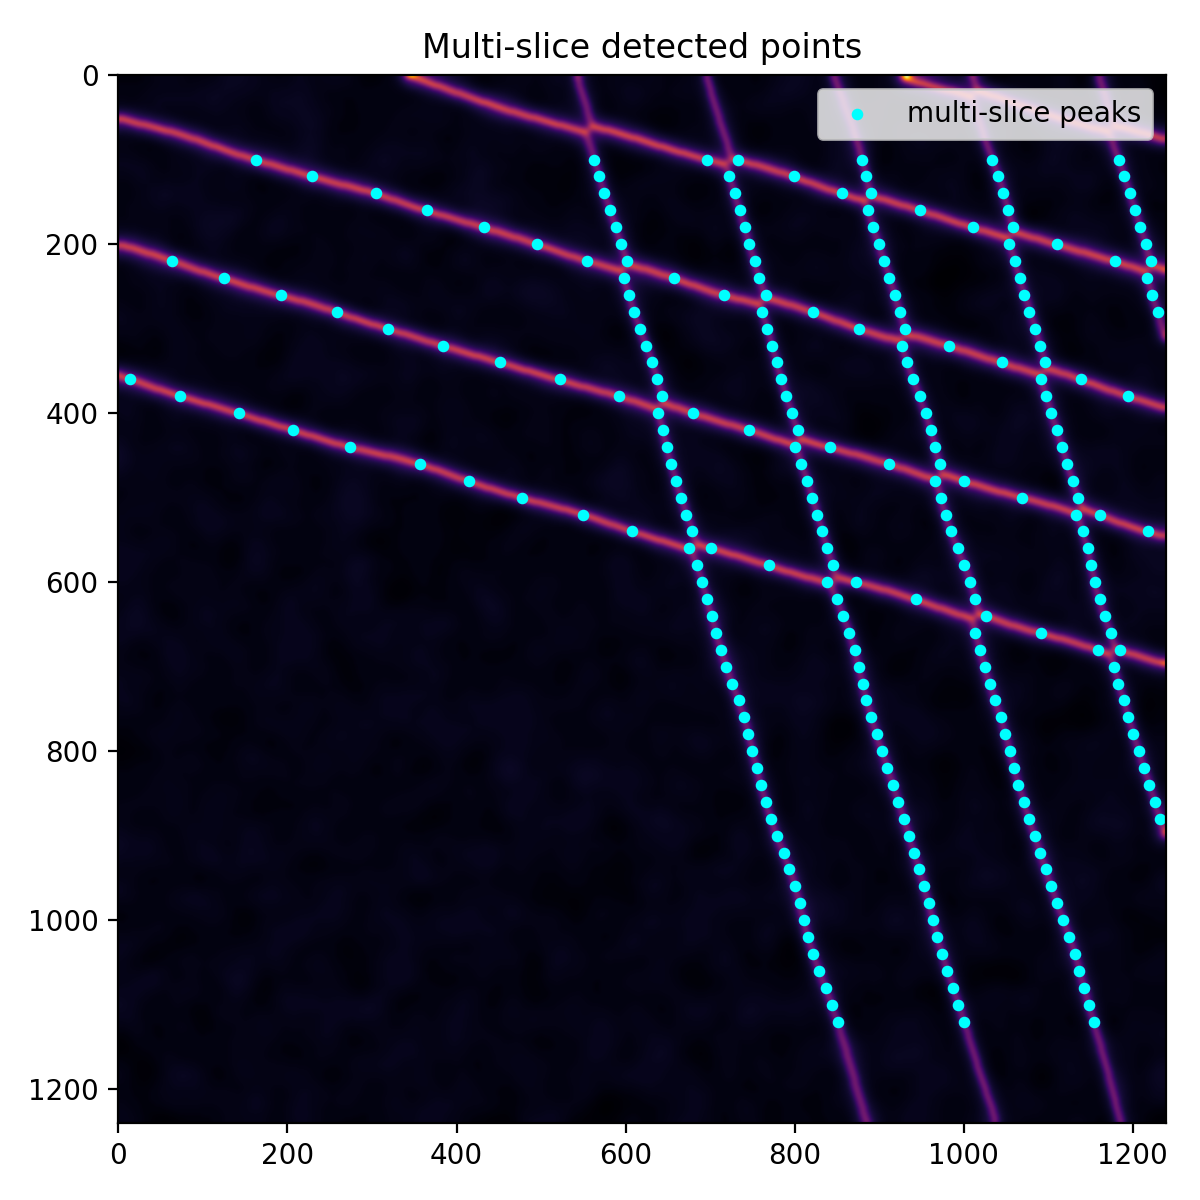
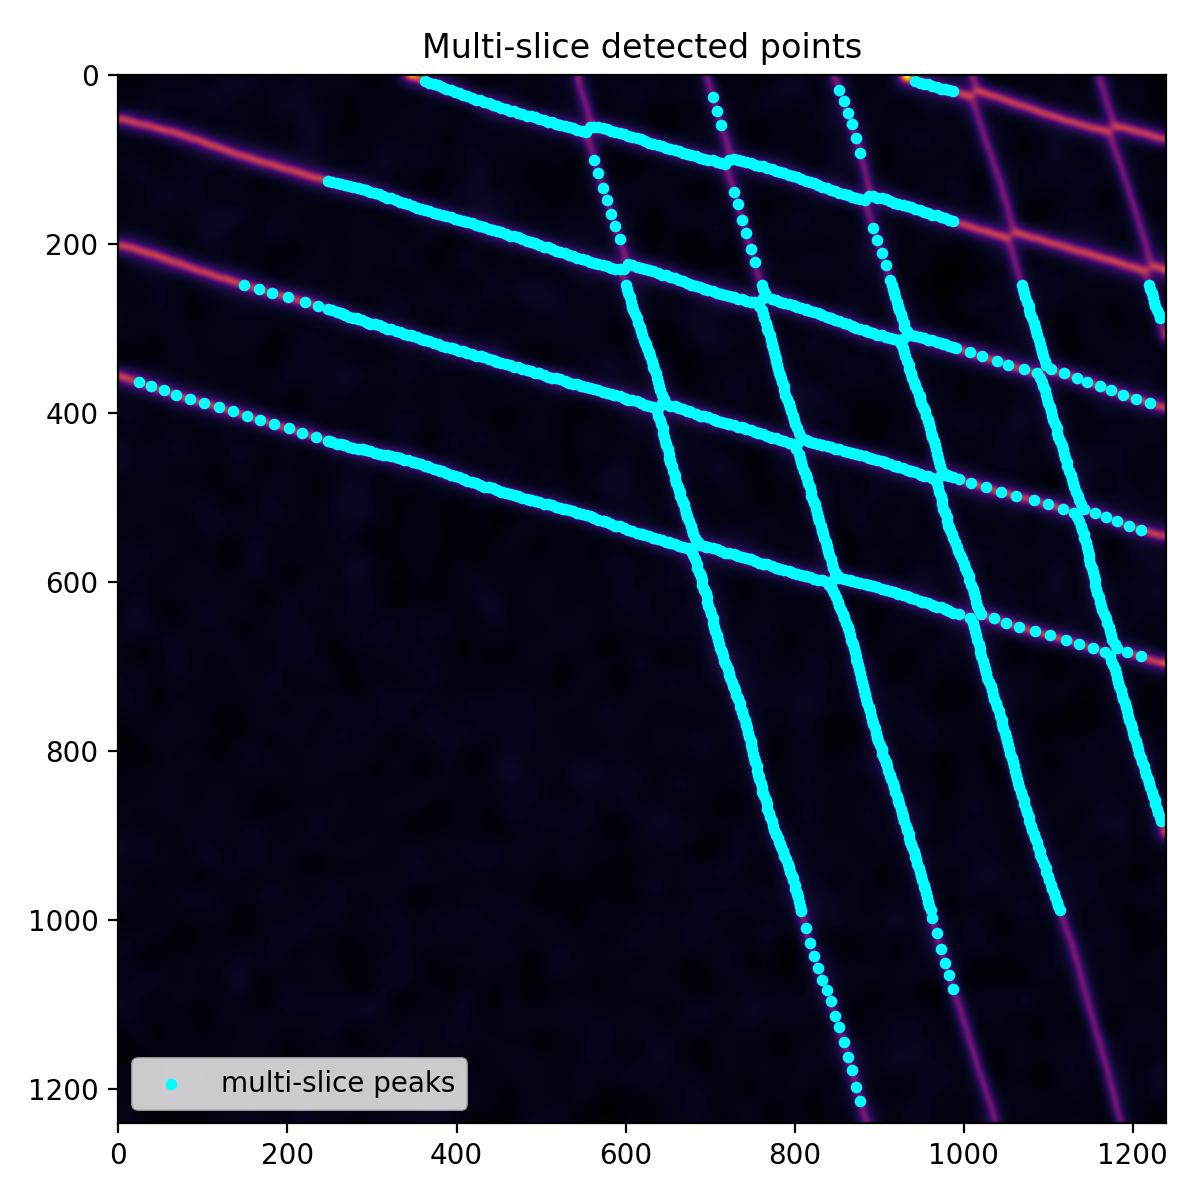
ransac for 1 line

diff --git a/1D/1D_extraction.py b/1D/1D_extraction.py
@@ -37,9 +37,13 @@ mid_col_idx = w // 2
 row_signal = img_smoothed[mid_row_idx, :]
 col_signal = img_smoothed[:, mid_col_idx]
 
+def detect_peaks(signal):
+    prominence = 0.2 * (np.max(signal) - np.min(signal))
+    return find_peaks(signal, prominence=prominence, distance=15)[0]
+
 # ── 5. peak detection ───────────────────────────────────────
-row_peaks, _ = find_peaks(row_signal, prominence=0.05, distance=15)
-col_peaks, _ = find_peaks(col_signal, prominence=0.05, distance=15)
+row_peaks = detect_peaks(row_signal)
+col_peaks = detect_peaks(col_signal)
 
 print(f"Detected row peaks: {len(row_peaks)}")
 print(f"Detected col peaks: {len(col_peaks)}")
@@ -148,17 +152,33 @@ print("Saved overlay with detected peaks")
 all_points = []
 
 # choose slices (avoid edges)
-row_indices = np.arange(100, h-100, 20)
+margin = int(0.2 * h)
+row_indices = np.arange(margin, h - margin, 5)
 
 for r in row_indices:
     signal = img_smoothed[r, :]
 
-    peaks, _ = find_peaks(signal, prominence=0.05, distance=15)
+    peaks = detect_peaks(signal)
 
     for p in peaks:
         all_points.append((p, r))  # (x, y)
 
+
+# ── ADD COLUMN SLICING (FIX FOR MISSING LINES) ──────────────
+
+col_indices = np.arange(margin, w - margin, 5)
+
+for c in col_indices:
+    signal = img_smoothed[:, c]
+
+    peaks = detect_peaks(signal)
+
+    for p in peaks:
+        all_points.append((c, p))  # (x, y)
+
+
 all_points = np.array(all_points)
+all_points = np.unique(all_points, axis=0)
 
 print(f"Total detected points from multi-slice: {len(all_points)}")
 
@@ -180,3 +200,67 @@ plt.savefig(os.path.join(out_folder, "multi_slice_points.png"), dpi=200)
 plt.close()
 
 print("Saved multi-slice visualization")
+
+
+
+# ── STEP 1: SINGLE RANSAC LINE ─────────────────────────────
+from sklearn.linear_model import RANSACRegressor
+
+X = all_points[:, 0].reshape(-1, 1)  # x (columns)
+y = all_points[:, 1]                 # y (rows)
+
+ransac = RANSACRegressor(
+    residual_threshold=5.0,  # how "thick" the line can be
+    max_trials=500,
+    random_state=0
+)
+
+ransac.fit(X, y)
+
+inlier_mask = ransac.inlier_mask_
+outlier_mask = ~inlier_mask
+
+print(f"Inliers: {inlier_mask.sum()} / {len(all_points)}")
+
+# slope
+slope = ransac.estimator_.coef_[0]
+intercept = ransac.estimator_.intercept_
+
+print(f"Slope: {slope:.4f}")
+
+# ── visualize single RANSAC fit ────────────────────────────
+fig, ax = plt.subplots(figsize=(6, 6))
+ax.imshow(img_smoothed, cmap="inferno")
+
+# inliers (line)
+ax.scatter(all_points[inlier_mask, 0],
+           all_points[inlier_mask, 1],
+           s=6, color="lime", label="RANSAC inliers")
+
+# outliers (everything else)
+ax.scatter(all_points[outlier_mask, 0],
+           all_points[outlier_mask, 1],
+           s=3, color="white", alpha=0.2, label="outliers")
+
+# draw fitted line
+x_line = np.array([0, w])
+y_line = slope * x_line + intercept
+ax.plot(x_line, y_line, color="red", linewidth=2, label="fitted line")
+
+ax.set_title("Single RANSAC line")
+ax.legend()
+
+plt.tight_layout()
+plt.savefig(os.path.join(out_folder, "ransac_single.png"), dpi=200)
+plt.close()
+
+print("Saved single RANSAC result")
+
+
+
+
+
+
+
+
+
